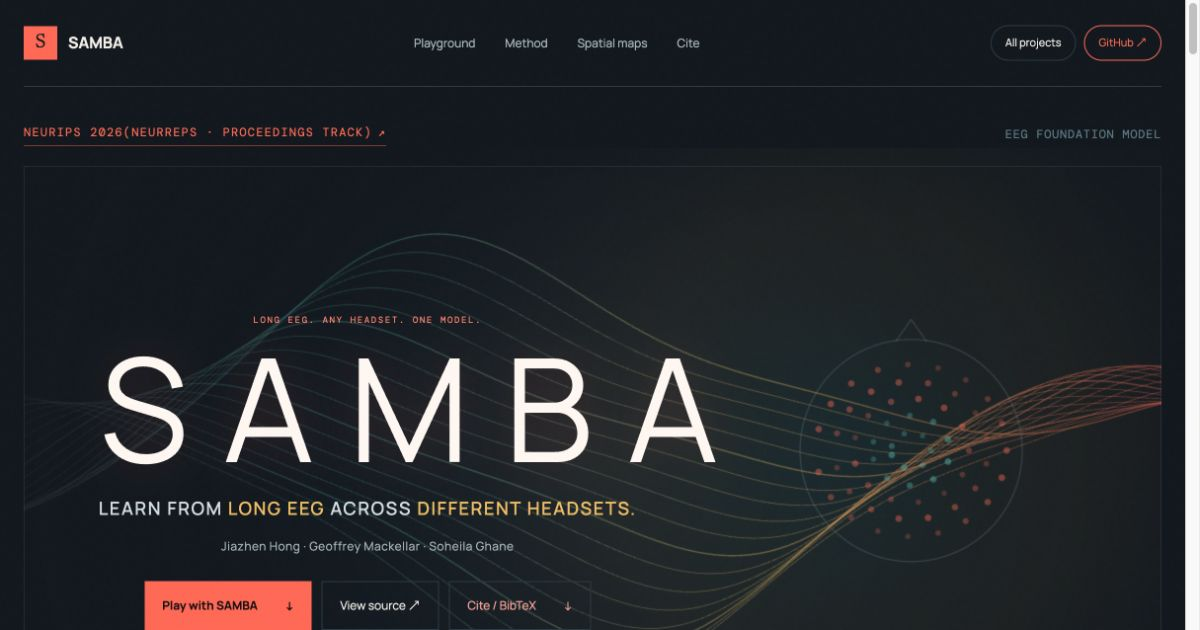
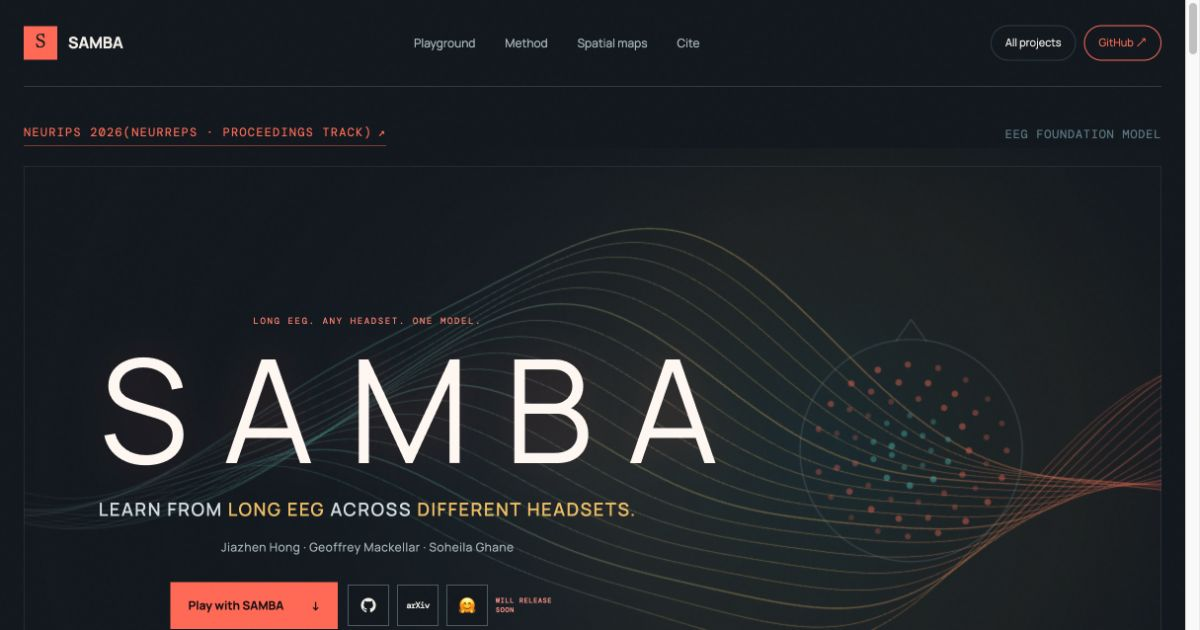
Add compact SAMBA resource links

diff --git a/projects/samba/styles.css b/projects/samba/styles.css
@@ -290,6 +290,13 @@ body,.method-section,.maps-section{background:var(--bg);color:var(--ink)}
 .subtitle em{font-style:normal;color:var(--gold)}
 .authors{color:#b1bdc2;letter-spacing:.04em}
 .hero-buttons{justify-content:center;margin-top:26px}
+.hero-resource-icons{display:flex;align-items:center;gap:8px}
+.resource-icon{width:42px;height:42px;display:grid;place-items:center;border:1px solid #56656f;background:#101820c7;color:#f4f1eb;transition:transform .2s,border-color .2s,color .2s,background .2s}
+.resource-icon:hover{transform:translateY(-2px);border-color:var(--coral);color:var(--coral);background:#182631}
+.resource-icon svg{width:18px;height:18px;fill:currentColor}
+.arxiv-icon span{font:500 9px/1 var(--mono);letter-spacing:-.08em}
+.hf-icon span{font-size:17px;line-height:1}
+.release-note{max-width:70px;text-align:left;font:500 7px/1.35 var(--mono);letter-spacing:.08em;text-transform:uppercase;color:#ff9f92}
 .hero-visual{position:absolute;inset:0;height:auto;z-index:1;opacity:.82;pointer-events:none}
 .hero-visual canvas{display:block;width:100%;height:100%}
 .samba-core{display:none}
@@ -312,7 +319,7 @@ body,.method-section,.maps-section{background:var(--bg);color:var(--ink)}
 .diff-legend{justify-content:center}
 
 @media(max-width:1000px){.hero{min-height:760px}.hero-grid{min-height:600px}.hero-copy{padding-top:20px}.hero h1{font-size:clamp(82px,14vw,128px)}.hero-visual{inset:20px -12% 0}.hero-stats{max-width:90%}.diff-heads{grid-template-columns:repeat(4,1fr)}}
-@media(max-width:700px){.hero{min-height:770px;padding-top:26px}.hero::before{inset:64px 0 58px}.hero-grid{min-height:590px}.hero-copy{width:100%;padding:0 10px}.hero-copy .eyebrow{font-size:7px;margin-bottom:16px}.hero h1{font-size:72px;letter-spacing:.14em;margin-left:.14em;margin-bottom:24px}.subtitle{max-width:300px;font-size:13px;letter-spacing:.06em}.authors{font-size:9px}.hero-buttons{align-items:center}.hero-visual{inset:50px -65% 0}.hero-label{display:none}.hero-stats{max-width:100%;padding:17px 8px;backdrop-filter:none}.hero-stats div{margin:0;padding:0 8px}.hero-stats strong{font-size:25px}.hero-stats span{font-size:7px}.diff-lab{padding:22px 14px}.diff-head h3{font-size:27px}.diff-signal{padding:8px}.diff-signal canvas{height:270px}.diff-heads{grid-template-columns:repeat(4,1fr)}.diff-legend{justify-content:flex-start;gap:11px}.diff-legend span{font-size:6px}}
+@media(max-width:700px){.hero{min-height:770px;padding-top:26px}.hero::before{inset:64px 0 58px}.hero-grid{min-height:590px}.hero-copy{width:100%;padding:0 10px}.hero-copy .eyebrow{font-size:7px;margin-bottom:16px}.hero h1{font-size:72px;letter-spacing:.14em;margin-left:.14em;margin-bottom:24px}.subtitle{max-width:300px;font-size:13px;letter-spacing:.06em}.authors{font-size:9px}.hero-buttons{align-items:center}.hero-resource-icons{gap:6px}.resource-icon{width:38px;height:38px}.release-note{max-width:62px;font-size:6px}.hero-visual{inset:50px -65% 0}.hero-label{display:none}.hero-stats{max-width:100%;padding:17px 8px;backdrop-filter:none}.hero-stats div{margin:0;padding:0 8px}.hero-stats strong{font-size:25px}.hero-stats span{font-size:7px}.diff-lab{padding:22px 14px}.diff-head h3{font-size:27px}.diff-signal{padding:8px}.diff-signal canvas{height:270px}.diff-heads{grid-template-columns:repeat(4,1fr)}.diff-legend{justify-content:flex-start;gap:11px}.diff-legend span{font-size:6px}}
 
 /* v13: restore the warm paper treatment for the model explainer only. */
 .method-section{background:#f3e8e5;color:#351518;border-color:#d5b9b5}

diff --git a/projects/samba/index.html b/projects/samba/index.html
@@ -26,7 +26,7 @@
   <link rel="preconnect" href="https://fonts.googleapis.com">
   <link rel="preconnect" href="https://fonts.gstatic.com" crossorigin>
   <link href="https://fonts.googleapis.com/css2?family=DM+Mono:wght@300;400;500&family=Manrope:wght@400;500;600;700&family=Newsreader:opsz,wght@6..72,300;6..72,400&display=swap" rel="stylesheet">
-  <link rel="stylesheet" href="styles.css?v=17">
+  <link rel="stylesheet" href="styles.css?v=18">
 </head>
 <body>
   <div class="grain" aria-hidden="true"></div>
@@ -45,7 +45,17 @@
           <h1>SAMBA</h1>
           <p class="subtitle">Learn from <em>long EEG</em> across <em>different headsets.</em></p>
           <p class="authors">Jiazhen Hong · Geoffrey Mackellar · Soheila Ghane</p>
-          <div class="hero-buttons"><a href="#play" class="button primary">Play with SAMBA <span>↓</span></a><a href="https://github.com/Jiazhen-Hong/SAMBA" target="_blank" rel="noreferrer" class="button secondary">View source ↗</a><a href="#cite" class="button secondary cite-button">Cite / BibTeX <span>↓</span></a></div>
+          <div class="hero-buttons">
+            <a href="#play" class="button primary">Play with SAMBA <span>↓</span></a>
+            <div class="hero-resource-icons" aria-label="SAMBA resources">
+              <a class="resource-icon" href="https://github.com/Jiazhen-Hong/SAMBA" target="_blank" rel="noreferrer" aria-label="SAMBA source code on GitHub" title="GitHub code">
+                <svg viewBox="0 0 24 24" aria-hidden="true"><path d="M12 2a10 10 0 0 0-3.16 19.49c.5.09.68-.22.68-.48v-1.87c-2.78.6-3.37-1.18-3.37-1.18-.45-1.16-1.11-1.47-1.11-1.47-.91-.62.07-.61.07-.61 1 .07 1.53 1.03 1.53 1.03.89 1.53 2.34 1.09 2.91.83.09-.65.35-1.09.63-1.34-2.22-.25-4.55-1.11-4.55-4.94 0-1.09.39-1.98 1.03-2.68-.1-.25-.45-1.27.1-2.64 0 0 .84-.27 2.75 1.02A9.6 9.6 0 0 1 12 6.82a9.6 9.6 0 0 1 2.5.34c1.91-1.29 2.75-1.02 2.75-1.02.55 1.37.2 2.39.1 2.64.64.7 1.03 1.59 1.03 2.68 0 3.84-2.34 4.68-4.57 4.93.36.31.68.92.68 1.85v2.77c0 .27.18.58.69.48A10 10 0 0 0 12 2Z"/></svg>
+              </a>
+              <a class="resource-icon arxiv-icon" href="https://arxiv.org/abs/2511.18571" target="_blank" rel="noreferrer" aria-label="SAMBA paper on arXiv" title="arXiv paper"><span aria-hidden="true">arXiv</span></a>
+              <a class="resource-icon hf-icon" href="https://huggingface.co/" target="_blank" rel="noreferrer" aria-label="Hugging Face weights will release soon" title="Hugging Face weights"><span aria-hidden="true">🤗</span></a>
+              <span class="release-note">Will release soon</span>
+            </div>
+          </div>
         </div>
         <div class="hero-visual reveal">
           <canvas id="heroCanvas" aria-label="Animated EEG waves mapping into a shared scalp space"></canvas>
